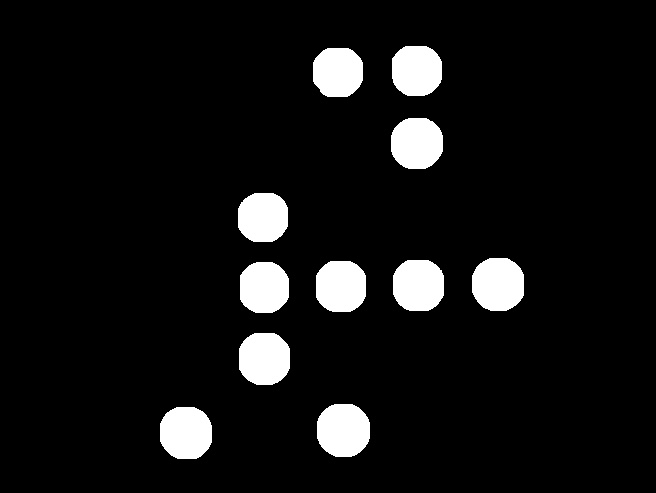
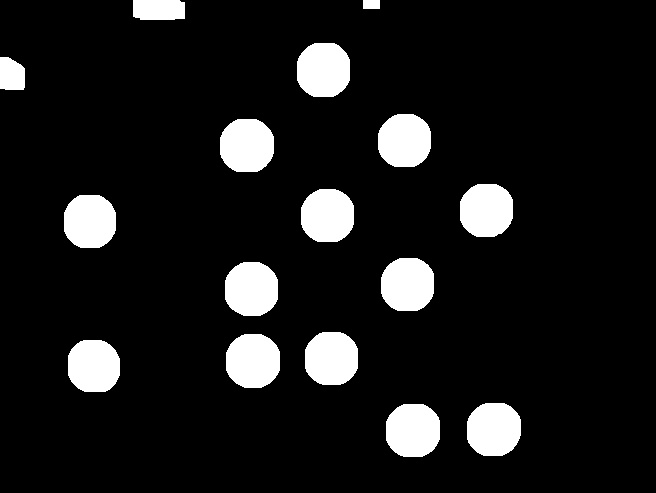
Yellow filter fine tune

diff --git a/VisionCode/doALL.py b/VisionCode/doALL.py
@@ -113,8 +113,8 @@ def main():
         lower_red2 = np.array([177, 0, 0])
         upper_red2 = np.array([255, 255, 255])
     #Yellow spectre
-        lower_yellow = np.array([20,190,20])
-	upper_yellow = np.array([30,255,255])
+        lower_yellow = np.array([10,140,20])
+	upper_yellow = np.array([100,255,255])
 #Make masks from the filter ranges
 	mask_red_low	= cv.inRange(hsv_blur, lower_red, upper_red)
         mask_red_high   = cv.inRange(hsv_blur, lower_red2, upper_red2)
@@ -145,9 +145,9 @@ def main():
         if graphics:
 #	    cv.imshow("source", source)
 #	    cv.imshow("mask_red-black/white", 	mask_red)
-#	    cv.imshow("mask_yellow-black/white", 	mask_yellow)	
+	    cv.imshow("mask_yellow-black/white", 	mask_yellow)	
 #	    cv.imshow("rest-red", 		res_red)
-#	    cv.imshow("rest-yellow", 	res_yellow)
+	    cv.imshow("rest-yellow", 	res_yellow)
             cv.imshow("detected circles", circles_dc)
 
 #save the black/white image of the board, for RED and YELLOW.
